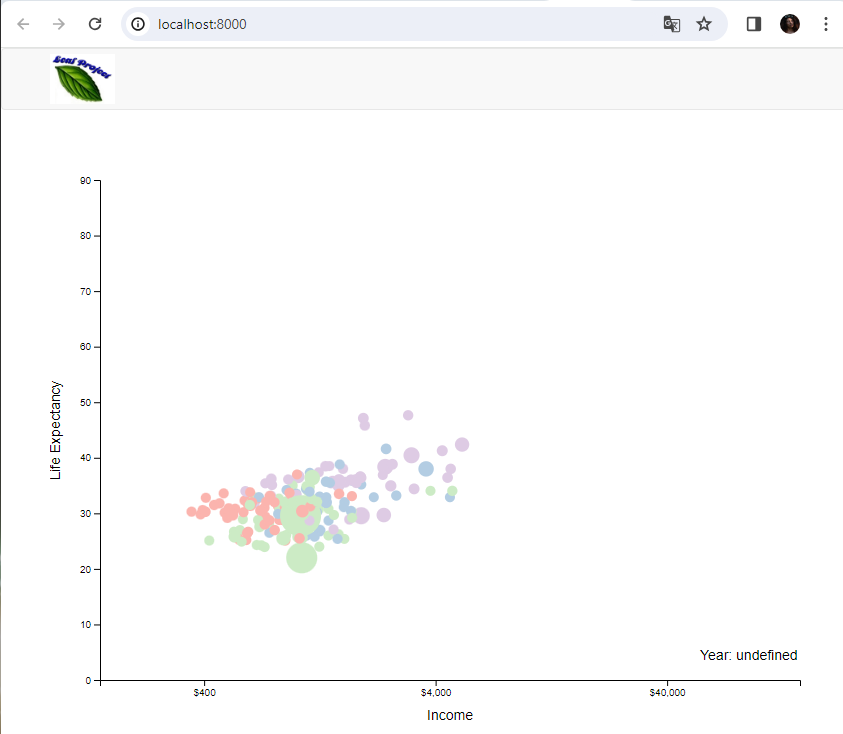
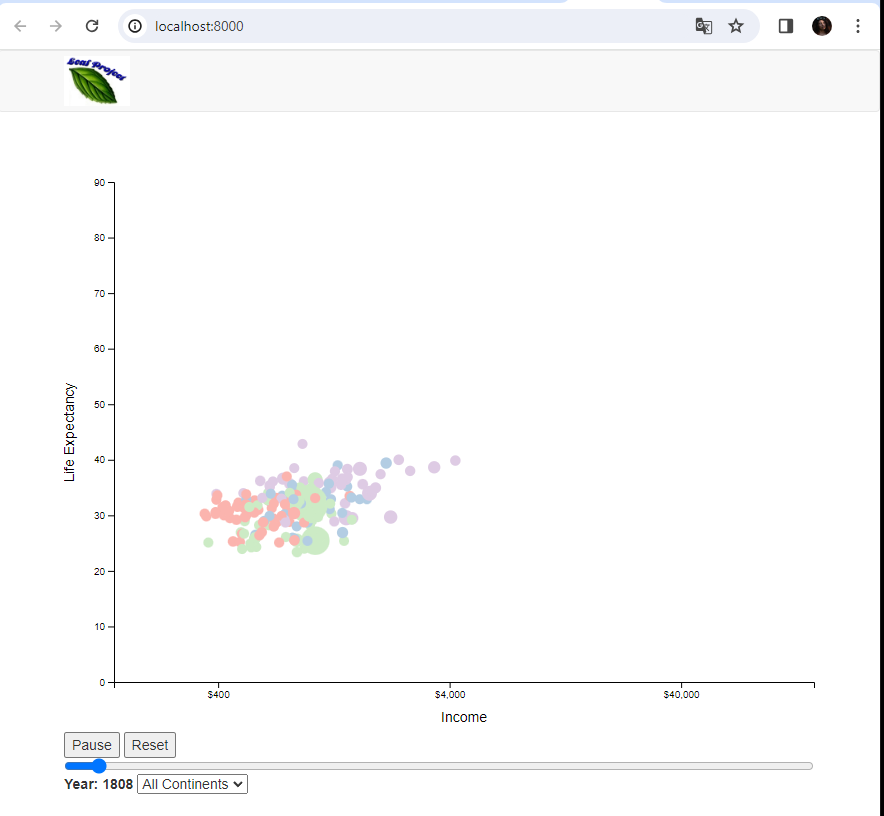
Excercise8

diff --git a/Exercise8/js/main.js b/Exercise8/js/main.js
@@ -53,27 +53,36 @@ const legend = svg.append("g")
 
 // Read and process data
 d3.json("data/data.json").then(function(data) {
-    const formattedData = data.map(year => {
-        return year["countries"]
-            .filter(country => country.income !== null && country.life_exp !== null)
-            .map(country => {
-                country.income = +country.income;
-                country.life_exp = +country.life_exp;
-                country.population = +country.population;
-                return country;
-            });
+    // Generate a random year between 1800 and 2020
+    const randomYear = Math.floor(Math.random() * (2020 - 1800 + 1)) + 1800;
+
+    // Iterate over the data entries to add the "year" attribute
+    data.forEach(yearData => {
+        yearData.year = parseInt(yearData.year); // Ensure year is parsed as integer
+        yearData.countries = yearData.countries.filter(country => country.income !== null && country.life_exp !== null)
+                                              .map(country => {
+                                                  country.income = +country.income;
+                                                  country.life_exp = +country.life_exp;
+                                                  country.population = +country.population;
+                                                  return country;
+                                              });
     });
 
-    // Initial update
-    update(formattedData[0]);
+    // Add the random year data entry
+    const randomData = {
+        year: randomYear,
+        countries: []
+        // You can populate this array with random country data if needed
+    };
+    data.push(randomData);
 
-    // Interval function
-    let index = 0;
-    setInterval(() => {
-        index = (index + 1) % formattedData.length;
-        update(formattedData[index]);
-    }, 1000);
+    // Process the updated data
+    const formattedData = data.map(yearData => yearData.countries);
+
+    // Initial update with the processed data
+    update(formattedData[0]);
 });
+
 
 // Update function
 function update(yearData) {
@@ -96,6 +105,91 @@ function update(yearData) {
     svg.append("text")
         .attr("class", "year-label")
         .attr("x", width - 100)
-        .attr("y", height - 20)
-        .text("Year: " + yearData[0].year);
+        .attr("y", height - 20);
+}
+
+// Define variables for play/pause functionality
+let isPlaying = false;
+let interval;
+
+// Event listeners for buttons and slider
+document.getElementById("play-pause-button").addEventListener("click", togglePlayPause);
+document.getElementById("reset-button").addEventListener("click", resetVisualization);
+document.getElementById("year-slider").addEventListener("input", updateYear);
+document.getElementById("continent-filter").addEventListener("change", filterByContinent);
+
+// Toggle play/pause functionality
+function togglePlayPause() {
+    if (isPlaying) {
+        clearInterval(interval);
+        isPlaying = false;
+        document.getElementById("play-pause-button").innerText = "Play";
+    } else {
+        interval = setInterval(playNextYear, 1000); // Adjust interval as needed
+        isPlaying = true;
+        document.getElementById("play-pause-button").innerText = "Pause";
+    }
+}
+
+// Function to play next year
+function playNextYear() {
+    let currentValue = parseInt(document.getElementById("year-slider").value);
+    if (currentValue < 2020) {
+        currentValue++;
+        document.getElementById("year-slider").value = currentValue;
+        updateYear();
+    } else {
+        togglePlayPause();
+    }
+}
+
+// Reset visualization to the year 1800
+function resetVisualization() {
+    document.getElementById("year-slider").value = 1800;
+    updateYear();
+    if (isPlaying) {
+        togglePlayPause();
+    }
+}
+
+// Update visualization based on slider value
+function updateYear() {
+    let year = document.getElementById("year-slider").value;
+    document.getElementById("slider-label").innerText = "Year: " + year;
+    update(formattedData[year - 1800]);
+}
+
+// Filter data by continent
+function filterByContinent() {
+    let selectedContinent = document.getElementById("continent-filter").value;
+    let filteredData;
+
+    // Check if the selected continent is "all"
+    if (selectedContinent === "all") {
+        // If "all" is selected, show all data for the current year
+        filteredData = formattedData[document.getElementById("year-slider").value - 1800];
+    } else {
+        // If a specific continent is selected, filter the data by continent
+        filteredData = formattedData[document.getElementById("year-slider").value - 1800].filter(country => country.continent === selectedContinent);
+    }
+
+    // Update the visualization with filtered data
+    update(filteredData);
+}
+
+
+// Add event listener to the continent filter dropdown
+document.getElementById("continent-filter").addEventListener("change", filterByContinent);
+
+// Add tooltip function
+function addTooltip(circle) {
+    circle.on("mouseover", function(d) {
+        // Show tooltip
+    })
+    .on("mousemove", function(d) {
+        // Update tooltip position
+    })
+    .on("mouseout", function(d) {
+        // Hide tooltip
+    });
 }

diff --git a/Exercise8/index.html b/Exercise8/index.html
@@ -21,6 +21,21 @@
     <div class="container">
         <div class="row">
             <div id="chart-area"></div>  
+            <div id="controls">
+                <button id="play-pause-button">Play</button>
+                <button id="reset-button">Reset</button>
+                <input type="range" id="year-slider" min="1800" max="2020" value="1800">
+                <label for="year-slider" id="slider-label">Year: 1800</label>
+                <select id="continent-filter">
+                    <option value="all">All Continents</option>
+                    <option value="asia">Asia</option>
+                    <option value="africa">Africa</option>
+                    <option value="americas">Americas</option>
+                    <option value="europe">Europe</option>
+                    <option value="oceania">Oceania</option>
+                </select>
+            </div>           
+            
         </div>
     </div>
 
